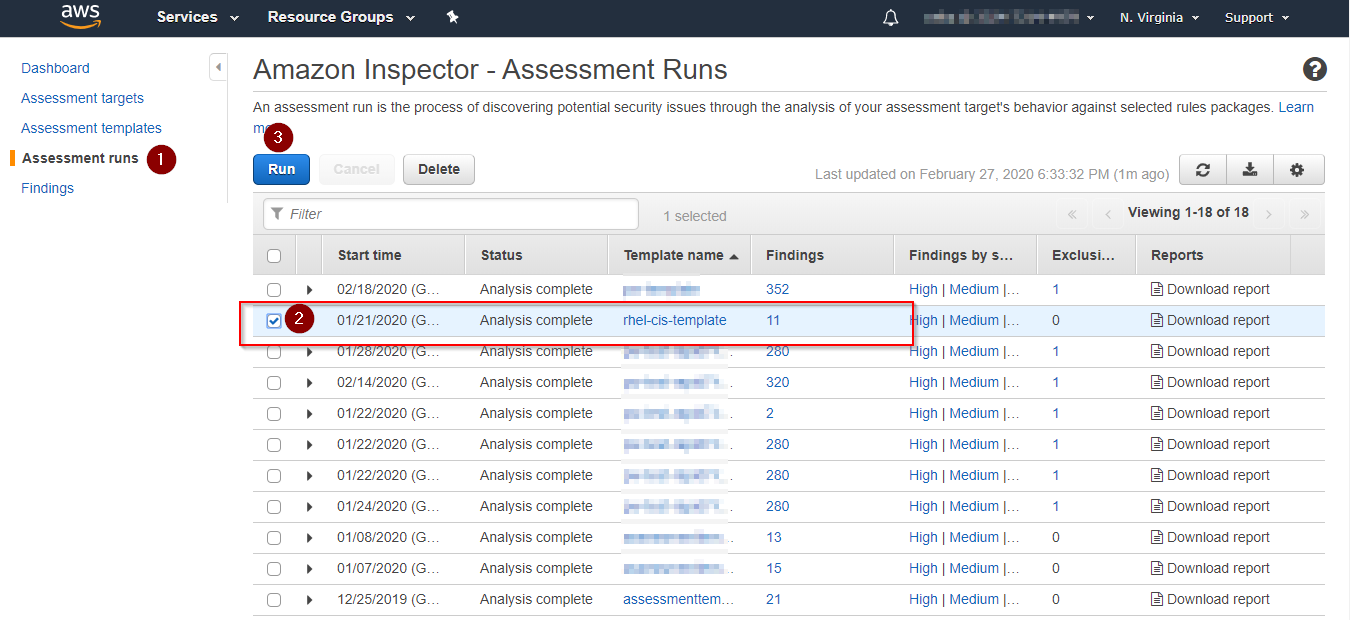
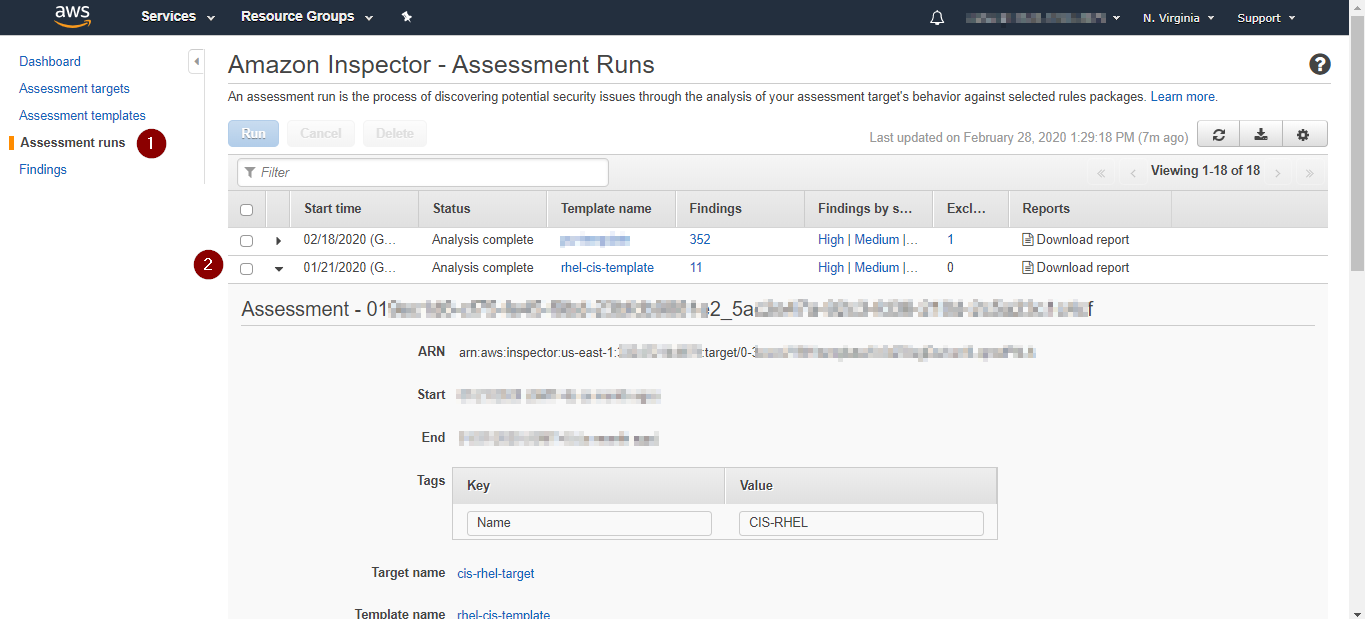
Task 14863 Updated with new flow for inspector configuration

diff --git a/docs/onboardingGuide/awsVMBaselineConfiguration.md b/docs/onboardingGuide/awsVMBaselineConfiguration.md
@@ -5,6 +5,8 @@ Includes installing and configuring AWS Inspector Agent to assess your assessmen
 instances (collections of AWS resources) for potential security issues and
 vulnerabilities.
 
+Please follow [link](https://aws.amazon.com/inspector/pricing/) for Amazon Inspector pricing.
+
 Please skip this step if AWS inspector is already configured for all EC2 instances.
 
 STEP 1 Installing SSM agent
@@ -76,8 +78,22 @@ Login to [AWS portal](https://console.aws.amazon.com/) with AWS **Administrat
 
     ![AWS Inspector - AWS Console](.././images/amazonWebServiceAccounts/aws_Inspector_ReviewandCreate.png#thumbnail)
 
+### 2.4 Verify assessment target
 
-### 2.4 Run assessment template
+Once Assessment target is created, one can verify the status of the agents. AWS Inspector and therefore Cloudneeti, will only be able to generate/display data for instances where **Agent Status** is **Healthy**.
+
+1.  Expand the Assessment Target created (1)
+
+2.  Click **Preview Target** (2)
+
+3.  A list of all the instances connected to the assessment target will appear
+
+4.  Verify the Agent Status Column (3)
+
+    ![AWS Inspector - AWS Console](.././images/amazonWebServiceAccounts/aws_Inspector_preview_target.png#thumbnail)
+
+
+### 2.5 Run assessment template
 
 1. Run the Assessment Template if required, by default assesment template is run on creation.
 
@@ -121,7 +137,7 @@ Login to [AWS portal](https://console.aws.amazon.com/) with AWS **Administrat
 
 ### 2.2 Verify assessment target
 
-Once Assessment target is created, one can verify the status of the agents as follows:
+Once Assessment target is created, one can verify the status of the agents. AWS Inspector and therefore Cloudneeti, will only be able to generate/display data for instances where **Agent Status** is **Healthy**.
 
 1.  Expand the Assessment Target created (1)
 
@@ -133,7 +149,6 @@ Once Assessment target is created, one can verify the status of the agents as fo
 
     ![AWS Inspector - AWS Console](.././images/amazonWebServiceAccounts/aws_Inspector_preview.png#thumbnail)
 
-**Note :** AWS Inspector and therefore Cloudneeti, will only be able to generate/display data for instances where **Agent Status is Healthy.**
 
 ### 2.3 Create and run Assessment Template
 
